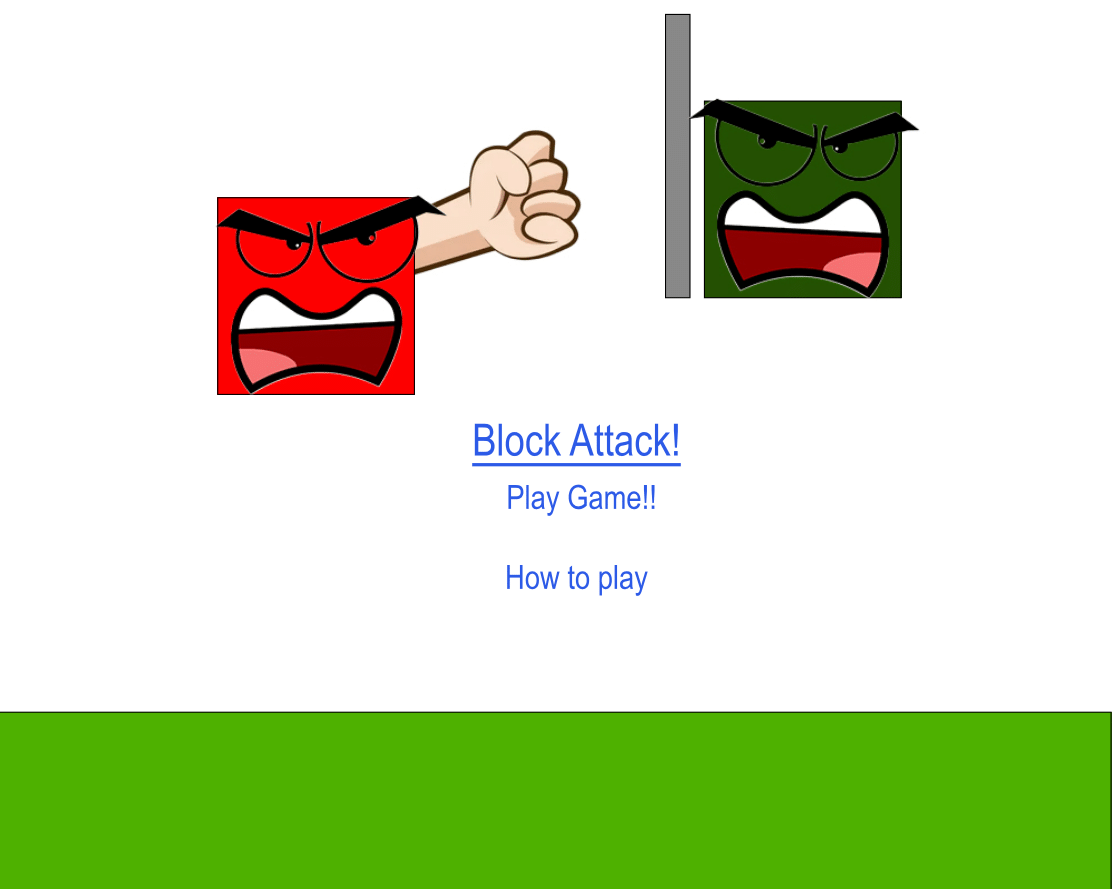
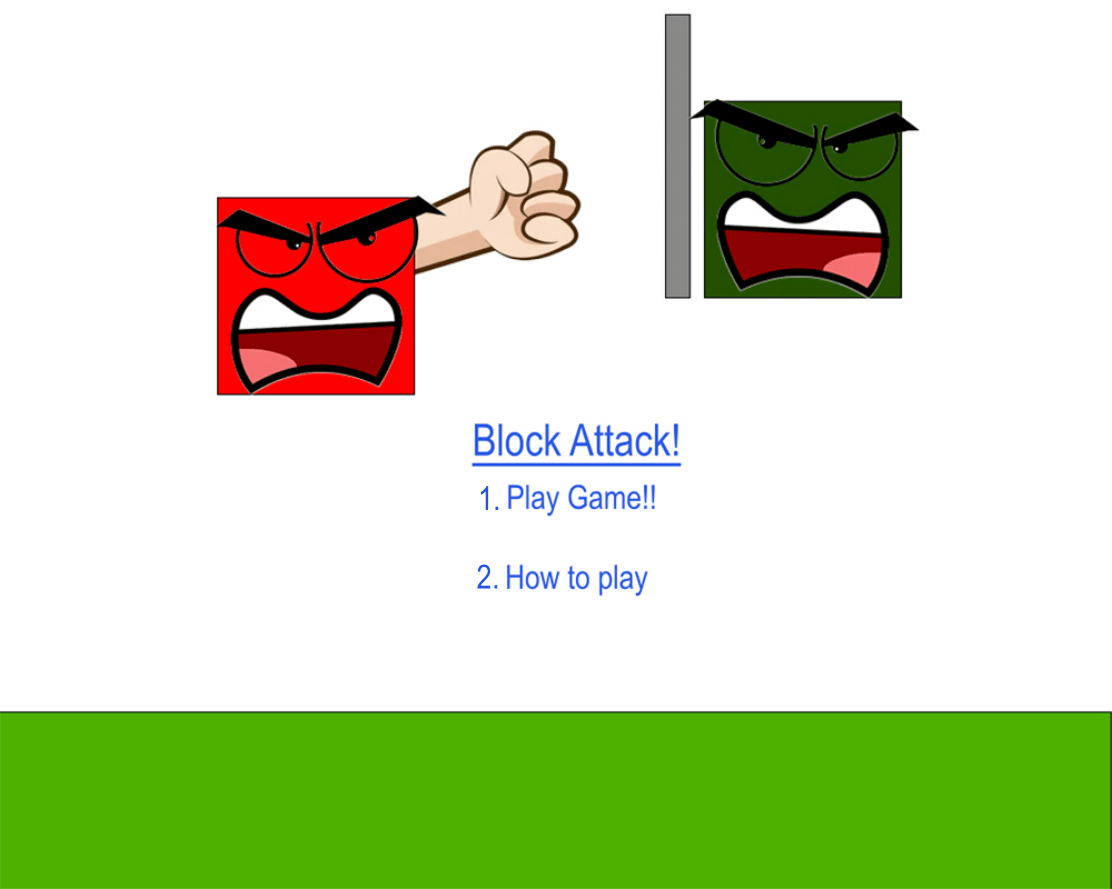
final boss

diff --git a/gds137/finalBoss/js/basic_platformer.js b/gds137/finalBoss/js/basic_platformer.js
@@ -12,6 +12,8 @@ var states = []
 var currentState1 = "play"
 var menu = "menu"
 var howTo = "howto"
+var stateName = 0
+var currentState = menu
 
 
 
@@ -27,12 +29,12 @@ var howTo = "howto"
 	player2 = new GameObject({x:canvas.width -100,y:canvas.height-150})
 	shield = new GameObject({x:player.x+100, y:player.y})
 
-	button1 = new GameObject({x:455, y: 423})
-	button1.width = 134
-	button1.height = 57
-	button1.color = rgba(0, 120, 32, 0.38)
 	
-
+	
+	function changeStates(stateName)
+	{
+		currentState = stateName;
+	}
 	
 
 	platform0 = new GameObject();
@@ -140,6 +142,10 @@ var howTo = "howto"
 			player.y = player.y -10
 		}
 		
+		if(back)
+		{
+			changeStates("menu")
+		}
 		
 		
 	
@@ -289,9 +295,16 @@ var howTo = "howto"
         console.log("shipSprite drawImage")
         context.restore()
 
+		if(one)
+		{
+			changeStates("play")
+		}
+		if(two)
+		{
+			changeStates("howto")
+		}
 		
 		
-		button1.drawRect()
 
 	}
 
@@ -302,13 +315,18 @@ var howTo = "howto"
 
 		context.drawImage(thowTo, 0,0, canvas.width, canvas.height)
 		context.restore()
+
+		if(back)
+		{
+			changeStates("menu")
+		}
 	}
 
 function animate()
 {
 	
 	context.clearRect(0,0,canvas.width, canvas.height);	
-	states[menu]();
+	states[currentState]();
 
 }
 

diff --git a/gds137/finalBoss/js/controls.js b/gds137/finalBoss/js/controls.js
@@ -7,6 +7,9 @@ var f = false;
 var shift = false;
 var enter = false
 var q = false
+var one = false
+var two = false
+var back = false
 
 document.addEventListener("keydown", press);
 document.addEventListener("keyup", release);
@@ -52,6 +55,18 @@ function press(e)
 	{
 		q = true
 	}
+	if(e.keyCode == 49)
+	{
+		one = true
+	}
+	if(e.keyCode == 51)
+	{
+		back = true
+	}
+	if(e.keyCode == 50)
+	{
+		two = true
+	}
 }
 
 function release(e)
@@ -86,6 +101,18 @@ function release(e)
 	if(e.keyCode == 81)
 	{
 		q = false
+	}
+	if(e.keyCode == 49)
+	{
+		one = false
+	}
+	if(e.keyCode == 51)
+	{
+		back = false
+	}
+	if(e.keyCode == 50)
+	{
+		two = false
 	}
 	
 	
